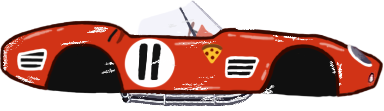
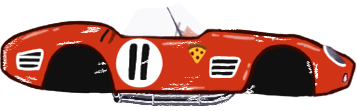
caradjustments

Changed region(s): [[0.3389, 0.0, 0.6162, 0.3514], [0.5238, 0.0811, 0.5546, 0.1892]]

diff --git a/source/js/screens/screens.js b/source/js/screens/screens.js
@@ -529,7 +529,7 @@ function screen01() {
 
   carWheel1.constrainTo(carBody, {
     pointA: { x: 0, y: 0 },
-    pointB: { x: 0 - 110, y: 0 + 30 },
+    pointB: { x: 0 - 100, y: 0 + 30 },
     length: 0,
     stiffness: 1,
     draw: true,
@@ -562,7 +562,7 @@ function screen01() {
 
   carWheel2.constrainTo(carBody, {
     pointA: { x: 0, y: 0 },
-    pointB: { x: 0 + 110, y: 0 + 30 },
+    pointB: { x: 0 + 100, y: 0 + 30 },
     length: 0,
     stiffness: 1,
     draw: true,
@@ -1210,7 +1210,7 @@ function screenEvents() {
 
         player.constrainTo(carBody, {
           pointA: { x: 0, y: 0 },
-          pointB: { x: 0, y: -60 },
+          pointB: { x: 0 - 30, y: -30 },
           length: 0,
           stiffness: 1,
           draw: false,
